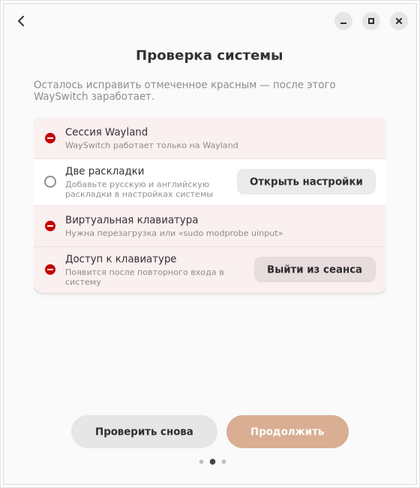
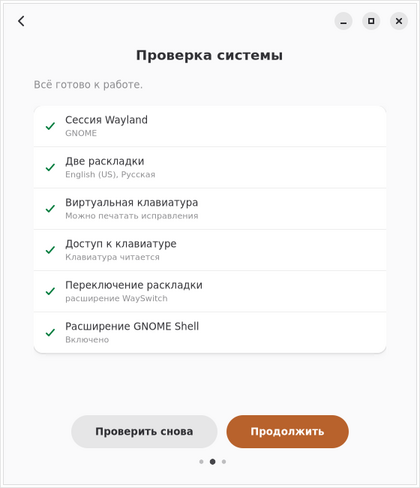
docs: понятные тексты для новичков по проверке юзабилити
- README: требования с версиями, curl в Ubuntu, нет интернета, X11 простыми словами,
  перезагрузка вместо «перелогиньтесь», помощь без терминала, сообщение об ошибке
- Linux Mint (Cinnamon) честно помечен как неподдерживаемый
- get.sh: Cinnamon и X11 — понятные предупреждения и вопрос «Всё равно установить?»,
  итог без команд терминала
- окно и первый запуск: без жаргона («композитор», «служба», «перелогиньтесь»)
- doctor: человеческие названия проверок, подсказки без packaging/install.sh,
  необязательное отмечается «○», а не «✗»
- первый запуск: значок пройденной проверки есть в теме Adwaita (emblem-ok не было)
- снимок первого запуска — исправная система
- заметки к релизу: где открыть терминал, команды из папки «Загрузки»

diff --git a/wayswitch/doctor.py b/wayswitch/doctor.py
@@ -77,8 +77,8 @@ def toolkit_accessibility() -> tuple[bool, str]:
         out = subprocess.run(["gsettings", "get", "org.gnome.desktop.interface",
                               "toolkit-accessibility"], capture_output=True, text=True,
                              timeout=3).stdout.strip().lower()
-    except (OSError, subprocess.SubprocessError) as exc:
-        return False, f"gsettings недоступен ({exc})"
+    except (OSError, subprocess.SubprocessError):
+        return False, "в этой среде настройка недоступна"
     if out == "true":
         return True, ""
     return False, ("gsettings set org.gnome.desktop.interface toolkit-accessibility true "
@@ -104,14 +104,16 @@ def run_checks() -> list[Check]:
         wayland = is_wayland()
         return wayland, DESKTOP_NAMES[desktop]
     checks.append(_check("Сессия Wayland", session,
-                         "WaySwitch работает только на Wayland; в X11 раскладку "
-                         "не прочитать и не переключить", key="wayland"))
+                         "включён старый режим графики X11, а WaySwitch работает только "
+                         "в Wayland: на экране входа нажмите на шестерёнку и выберите "
+                         "сеанс без «Xorg»", key="wayland"))
 
-    checks.append(_check("Мост доступности в программах (toolkit-accessibility)",
+    checks.append(_check("Распознавание программ и полей пароля (настройка)",
                          toolkit_accessibility,
                          "необязательно: без неё не работают исключения по "
                          "программам и защита полей паролей", required=False))
-    checks.append(_check("Мост доступности (at-spi)", atspi_status,
+    checks.append(_check("Распознавание программ и полей пароля (служба at-spi)",
+                         atspi_status,
                          "необязательно: без него не работают исключения по "
                          "программам и защита полей паролей", required=False))
 
@@ -142,8 +144,9 @@ def run_checks() -> list[Check]:
                 return False, "IBus не отвечает"
             desc = bus.get_global_engine()
             return True, f"текущий движок {desc.get_name() if desc else '?'}"
-        checks.append(_check("IBus (страховочный бэкенд)", ibus,
-                             "нужен только без расширения Shell", required=False))
+        checks.append(_check("Запасной способ переключения (IBus)", ibus,
+                             "необязательно: нужен только без расширения WaySwitch",
+                             required=False))
 
     if desktop == KDE:
         def kde_service():
@@ -198,7 +201,7 @@ def run_checks() -> list[Check]:
         gi.require_version("Adw", "1")
         from gi.repository import Adw, Gtk  # noqa: F401
         return True, ""
-    checks.append(_check("Python-модули evdev, Gtk4, Adw", modules,
+    checks.append(_check("Нужные программные библиотеки (evdev, GTK 4, libadwaita)", modules,
                          "apt install python3-evdev python3-gi gir1.2-gtk-4.0 gir1.2-adw-1 "
                          "(dnf: python3-evdev python3-gobject gtk4 libadwaita, "
                          "pacman: python-evdev python-gobject gtk4 libadwaita)"))
@@ -206,7 +209,7 @@ def run_checks() -> list[Check]:
     def xkb():
         from wayswitch.keymap import XkbKeymap
         return XkbKeymap.available(), ""
-    checks.append(_check("libxkbcommon", xkb,
+    checks.append(_check("Библиотека раскладок (libxkbcommon)", xkb,
                          "apt install libxkbcommon0 / dnf install libxkbcommon / "
                          "pacman -S libxkbcommon"))
 
@@ -243,15 +246,15 @@ def run_checks() -> list[Check]:
         km = XkbKeymap.from_names(specs, [])
         alphabets = sorted(km.alphabet(g) for g in range(km.num_groups))
         return alphabets == ["latin", "ru"], ", ".join(s.xkb_id for s in specs)
-    checks.append(_check("Две раскладки: русская и латинская", sources,
-                         "оставьте в системе ровно две раскладки: ru и en/us",
+    checks.append(_check("Две раскладки: русская и английская", sources,
+                         "оставьте в системе ровно две раскладки: русскую и английскую",
                          key="layouts"))
 
     def uinput():
         return uinput_status()
-    checks.append(_check("/dev/uinput доступен на запись", uinput,
-                         "sudo modprobe uinput (после обновления ядра — перезагрузка); "
-                         "если не помогает — правило udev: sudo packaging/install.sh",
+    checks.append(_check("Можно печатать исправления (/dev/uinput)", uinput,
+                         "перезагрузите компьютер; если не помогло — переустановите "
+                         "WaySwitch той же командой, которой устанавливали",
                          key="uinput"))
 
     def keyboards():
@@ -269,16 +272,18 @@ def run_checks() -> list[Check]:
             if kind == "keyboard":
                 found.append(dev.name)
             dev.close()
-        return bool(found), f"{len(found)} клавиатур, без доступа {denied}"
-    checks.append(_check("Клавиатуры читаются", keyboards,
-                         "правило udev 60-wayswitch.rules + перелогин", key="keyboards"))
+        return bool(found), f"клавиатур найдено: {len(found)}, без доступа: {denied}"
+    checks.append(_check("Клавиатура доступна", keyboards,
+                         "перезагрузите компьютер (доступ к клавиатуре выдаётся при "
+                         "входе в систему)", key="keyboards"))
 
     def udev_rule():
         # install.sh кладёт правило в /etc, .deb — в /usr/lib.
         found = [p for p in ("/etc/udev/rules.d/60-wayswitch.rules",
                              "/usr/lib/udev/rules.d/60-wayswitch.rules") if Path(p).exists()]
         return bool(found), found[0] if found else ""
-    checks.append(_check("Правило udev установлено", udev_rule, "sudo packaging/install.sh"))
+    checks.append(_check("Доступ к клавиатуре настроен (правило udev)", udev_rule,
+                         "переустановите WaySwitch той же командой, которой устанавливали"))
 
     def unit():
         # .deb кладёт юнит системно, install.sh — в профиль пользователя.
@@ -286,8 +291,9 @@ def run_checks() -> list[Check]:
                       Path.home() / ".config/systemd/user/wayswitch.service")
         found = [str(c) for c in candidates if c.exists()]
         return bool(found), found[0] if found else ""
-    checks.append(_check("systemd user-сервис", unit,
-                         "sudo packaging/install.sh", required=False))
+    checks.append(_check("Автозапуск установлен", unit,
+                         "необязательно: переустановите WaySwitch той же командой, "
+                         "которой устанавливали", required=False))
 
     def service_running():
         import subprocess
@@ -317,7 +323,9 @@ def run_checks() -> list[Check]:
 def format_report(checks: list[Check]) -> str:
     lines = []
     for c in checks:
-        mark = "✓" if c.ok else "✗"
+        # Необязательное — не крестиком: на исправной системе их бывает
+        # несколько, и человек решил бы, что всё сломано.
+        mark = "✓" if c.ok else ("✗" if c.required else "○")
         line = f"{mark} {c.name}"
         if c.hint:
             line += f"\n    {c.hint}"

diff --git a/wayswitch/gui/texts.py b/wayswitch/gui/texts.py
@@ -104,9 +104,11 @@ def status_view(status: dict | None) -> StatusView:
     if not status.get("active") or not status.get("auto_correct", True):
         # Служба работает, но на пробеле не исправляет: либо выключено в
         # параметрах, либо раскладку прочитать нечем (только ручной жест).
-        reason = ("Автоисправление выключено в параметрах"
+        reason = ("Сам WaySwitch не исправляет — это выключено в Параметрах. "
+                  "Исправить слово можно жестом (по умолчанию — дважды Shift)"
                   if not status.get("auto_correct", True)
-                  else "Раскладку не прочитать — работает только ручной жест")
+                  else "Сам WaySwitch сейчас не исправляет: не видно, какая раскладка "
+                       "включена. Исправить слово можно жестом (по умолчанию — дважды Shift)")
         return StatusView("manual", "Только вручную", reason, True, True)
     return StatusView("on", "Исправление включено", where, True, True)
 
@@ -118,7 +120,8 @@ def tray_title(desktop: str) -> str:
 
 def tray_hint(desktop: str) -> str:
     return {
-        "gnome": "Нужно расширение AppIndicator. В Ubuntu оно уже есть",
+        "gnome": "В Ubuntu работает сразу. В других системах нужно расширение "
+                 "«AppIndicator» — включите его в приложении «Расширения»",
         "kde": "В системном лотке Plasma",
         "sway": "Для панелей с треем: Waybar, ironbar, AGS",
         "hyprland": "Для панелей с треем: Waybar, ironbar, AGS",
@@ -194,19 +197,24 @@ class History:
 # действие-кнопка или None). Проверки без записи здесь в онбординге не видны:
 # они остаются в «Устранение неполадок».
 ONBOARDING_CHECKS = {
-    "wayland": ("Сессия Wayland", "{detail}", "WaySwitch работает только на Wayland", None),
+    "wayland": ("Сессия Wayland", "{detail}",
+                "Сейчас включён старый режим графики X11. Выйдите из системы, на экране "
+                "входа нажмите на шестерёнку и выберите сеанс без «Xorg»", None),
     "layouts": ("Две раскладки", "{detail}",
                 "Добавьте русскую и английскую раскладки в настройках системы",
                 "layouts"),
     "uinput": ("Виртуальная клавиатура", "Можно печатать исправления",
-               "Нужна перезагрузка или «sudo modprobe uinput»", None),
+               "Перезагрузите компьютер", None),
     "keyboards": ("Доступ к клавиатуре", "Клавиатура читается",
-                  "Появится после повторного входа в систему", "logout"),
+                  "Сохраните документы и перезагрузите компьютер "
+                  "(или выйдите из системы и войдите снова)", "logout"),
     "switch": ("Переключение раскладки", "{detail}",
-               "Композитор не отвечает или не настроен — подробности: wayswitch doctor",
+               "WaySwitch не может переключать раскладку. Подробности — в меню ☰ → "
+               "«О WaySwitch» → «Устранение неполадок»",
                None),
     "extension": ("Расширение GNOME Shell", "Включено",
-                  "Нужно, чтобы переключать раскладку. Включите и перелогиньтесь",
+                  "Нужно, чтобы переключать раскладку. Нажмите «Включить», затем "
+                  "перезагрузите компьютер",
                   "extension"),
 }
 

diff --git a/wayswitch/gui/window.py b/wayswitch/gui/window.py
@@ -198,7 +198,8 @@ class MainWindow:
         box.append(self.history_box)
         note = Gtk.Label(
             label="Кнопка «↶» запоминает слово: WaySwitch больше не будет его исправлять. "
-                  "Вернуть текст, исправленный только что, можно тем же жестом.",
+                  "Если слово исправилось зря — сразу нажмите жест исправления (по "
+                  "умолчанию дважды Shift), и оно вернётся.",
             xalign=0.0, wrap=True, margin_top=10, margin_start=2)
         note.add_css_class("dim-label")
         note.add_css_class("caption")
@@ -210,8 +211,9 @@ class MainWindow:
 
         page = Adw.StatusPage(icon_name="system-shutdown-symbolic",
                               title="WaySwitch не запущен",
-                              description="Слова сейчас не исправляются. Служба могла "
-                                          "завершиться с ошибкой или ещё не включена.")
+                              description="Слова сейчас не исправляются. Нажмите "
+                                          "«Запустить». Если не поможет — перезагрузите "
+                                          "компьютер.")
         box = Gtk.Box(orientation=Gtk.Orientation.VERTICAL, spacing=10,
                       halign=Gtk.Align.CENTER)
         start = Gtk.Button(label="Запустить")
@@ -286,14 +288,15 @@ class MainWindow:
         from gi.repository import GLib
 
         if not autostart.start_service():
-            self.toast("Не удалось запустить службу — откройте журнал")
+            self.toast("Не получилось запустить. Перезагрузите компьютер и откройте "
+                       "WaySwitch снова")
             return
 
         def check():
             # Служба могла стартовать и сразу выйти (например, не нашла,
             # чем переключать раскладку): подсказать, где искать причину.
             if self.app.proxy.status is None:
-                self.toast("Служба не запустилась", "Журнал",
+                self.toast("WaySwitch не запустился. Причина — в журнале", "Журнал",
                            lambda: dialogs.journal_dialog(self.window))
             return GLib.SOURCE_REMOVE
 

diff --git a/wayswitch/gui/dialogs.py b/wayswitch/gui/dialogs.py
@@ -244,8 +244,8 @@ def selection_row(cfg) -> tuple[str, str, list[str]]:
     """Строка «Выделенный текст» для «Жесты и клавиши»."""
     if cfg.gesture.selection_key:
         return ("Выделенный текст", "", [gesture_keys.human_name(cfg.gesture.selection_key)])
-    return ("Выделенный текст", "Клавиша не выбрана: меню значка или команда "
-            "wayswitch fix-selection", [])
+    return ("Выделенный текст", "Клавиша не выбрана. Выберите её в Параметрах → "
+            "Исправление → «Исправить выделенное»", [])
 
 
 def shortcuts_dialog(parent, cfg):

diff --git a/wayswitch/gui/onboarding.py b/wayswitch/gui/onboarding.py
@@ -59,7 +59,7 @@ def open_layout_settings() -> bool:
             or _spawn(["systemsettings", "kcm_keyboard"]))
 
 
-ROW_ICONS = {"ok": ("emblem-ok-symbolic", "success"),
+ROW_ICONS = {"ok": ("object-select-symbolic", "success"),
              "fail": ("dialog-error-symbolic", "error"),
              "optional": ("radio-symbolic", "dim-label")}
 ACTIONS = {"logout": ("Выйти из сеанса", logout),

diff --git a/README.en.md b/README.en.md
@@ -19,9 +19,9 @@
 
 WaySwitch fixes a word typed in the wrong layout (`ghbdtn` instead of
 «привет») right away, on Space — no hotkeys, no manual layout switching. It
-works on Wayland in GNOME, KDE Plasma, Sway, Hyprland, Xfce, MATE,
-Budgie, LXQt and (experimentally) Cinnamon, where classic tools of this kind can neither listen to the
-keyboard nor type for you. The interface is in Russian: WaySwitch currently
+works on Wayland in GNOME, KDE Plasma, Sway, Hyprland, Xfce, MATE, Budgie
+and LXQt, where classic tools of this kind can neither listen to the
+keyboard nor type for you. Linux Mint (Cinnamon) is not supported yet. The interface is in Russian: WaySwitch currently
 supports the Russian ↔ English pair.
 
 <p align="center">
@@ -69,9 +69,10 @@ Manjaro and most other modern distributions are fine.
 3. The script detects your distribution, says what it is going to do and
    asks for confirmation, then for your password (it is not shown while you
    type — that's normal).
-4. **Log out and back in.** WaySwitch starts by itself (on Sway and
-   Hyprland — once `exec wayswitch run` is in the config, see below); the first time you
-   open its window it checks the system and tells you if anything is missing.
+4. **Restart the computer** (save your documents first). WaySwitch then
+   starts by itself (on Sway and Hyprland — once `exec wayswitch run` is in
+   the config, see below); the first time you open its window it checks the
+   system and tells you if anything is missing.
 
 | Distribution | What happens |
 |---|---|
